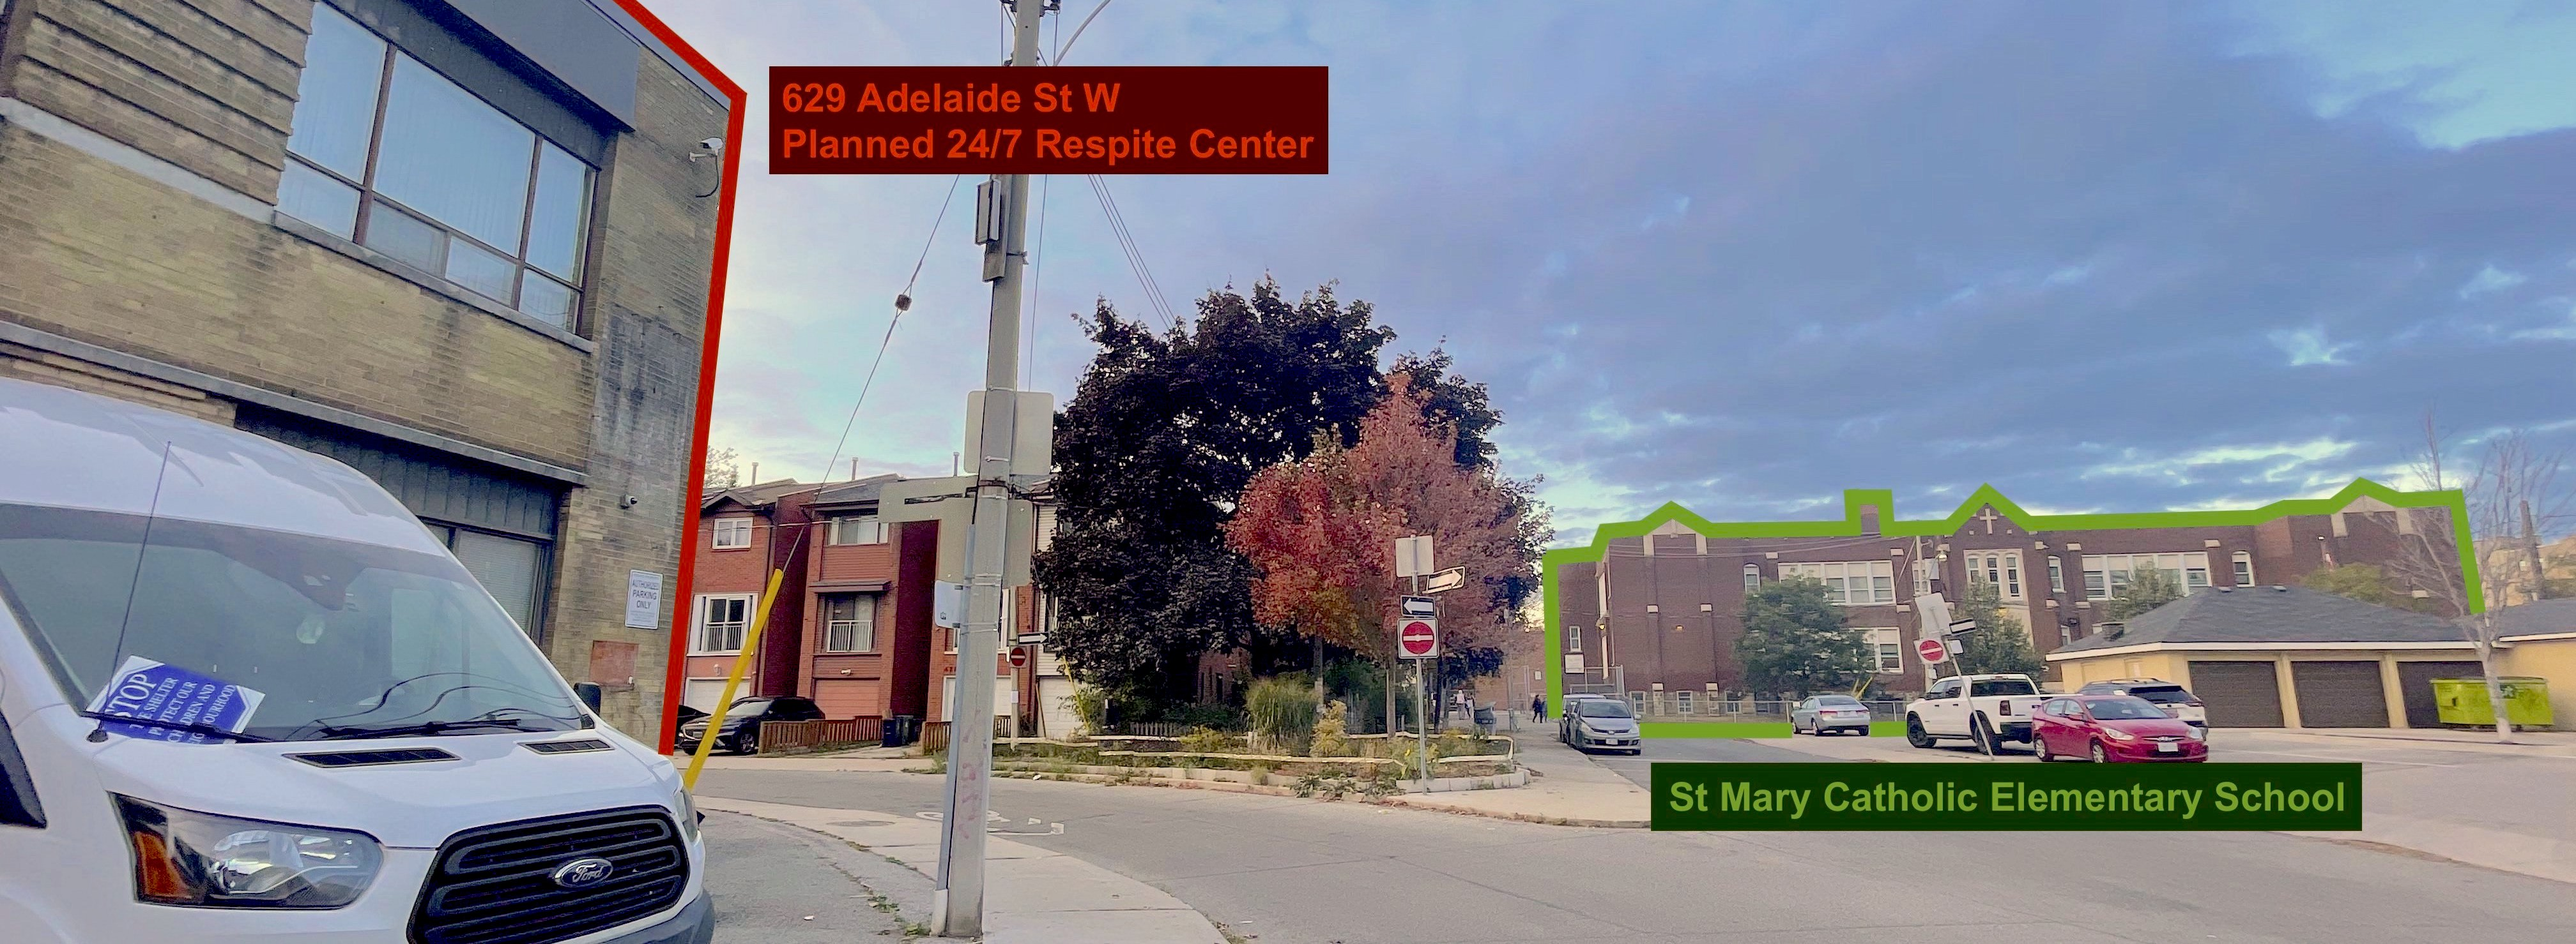
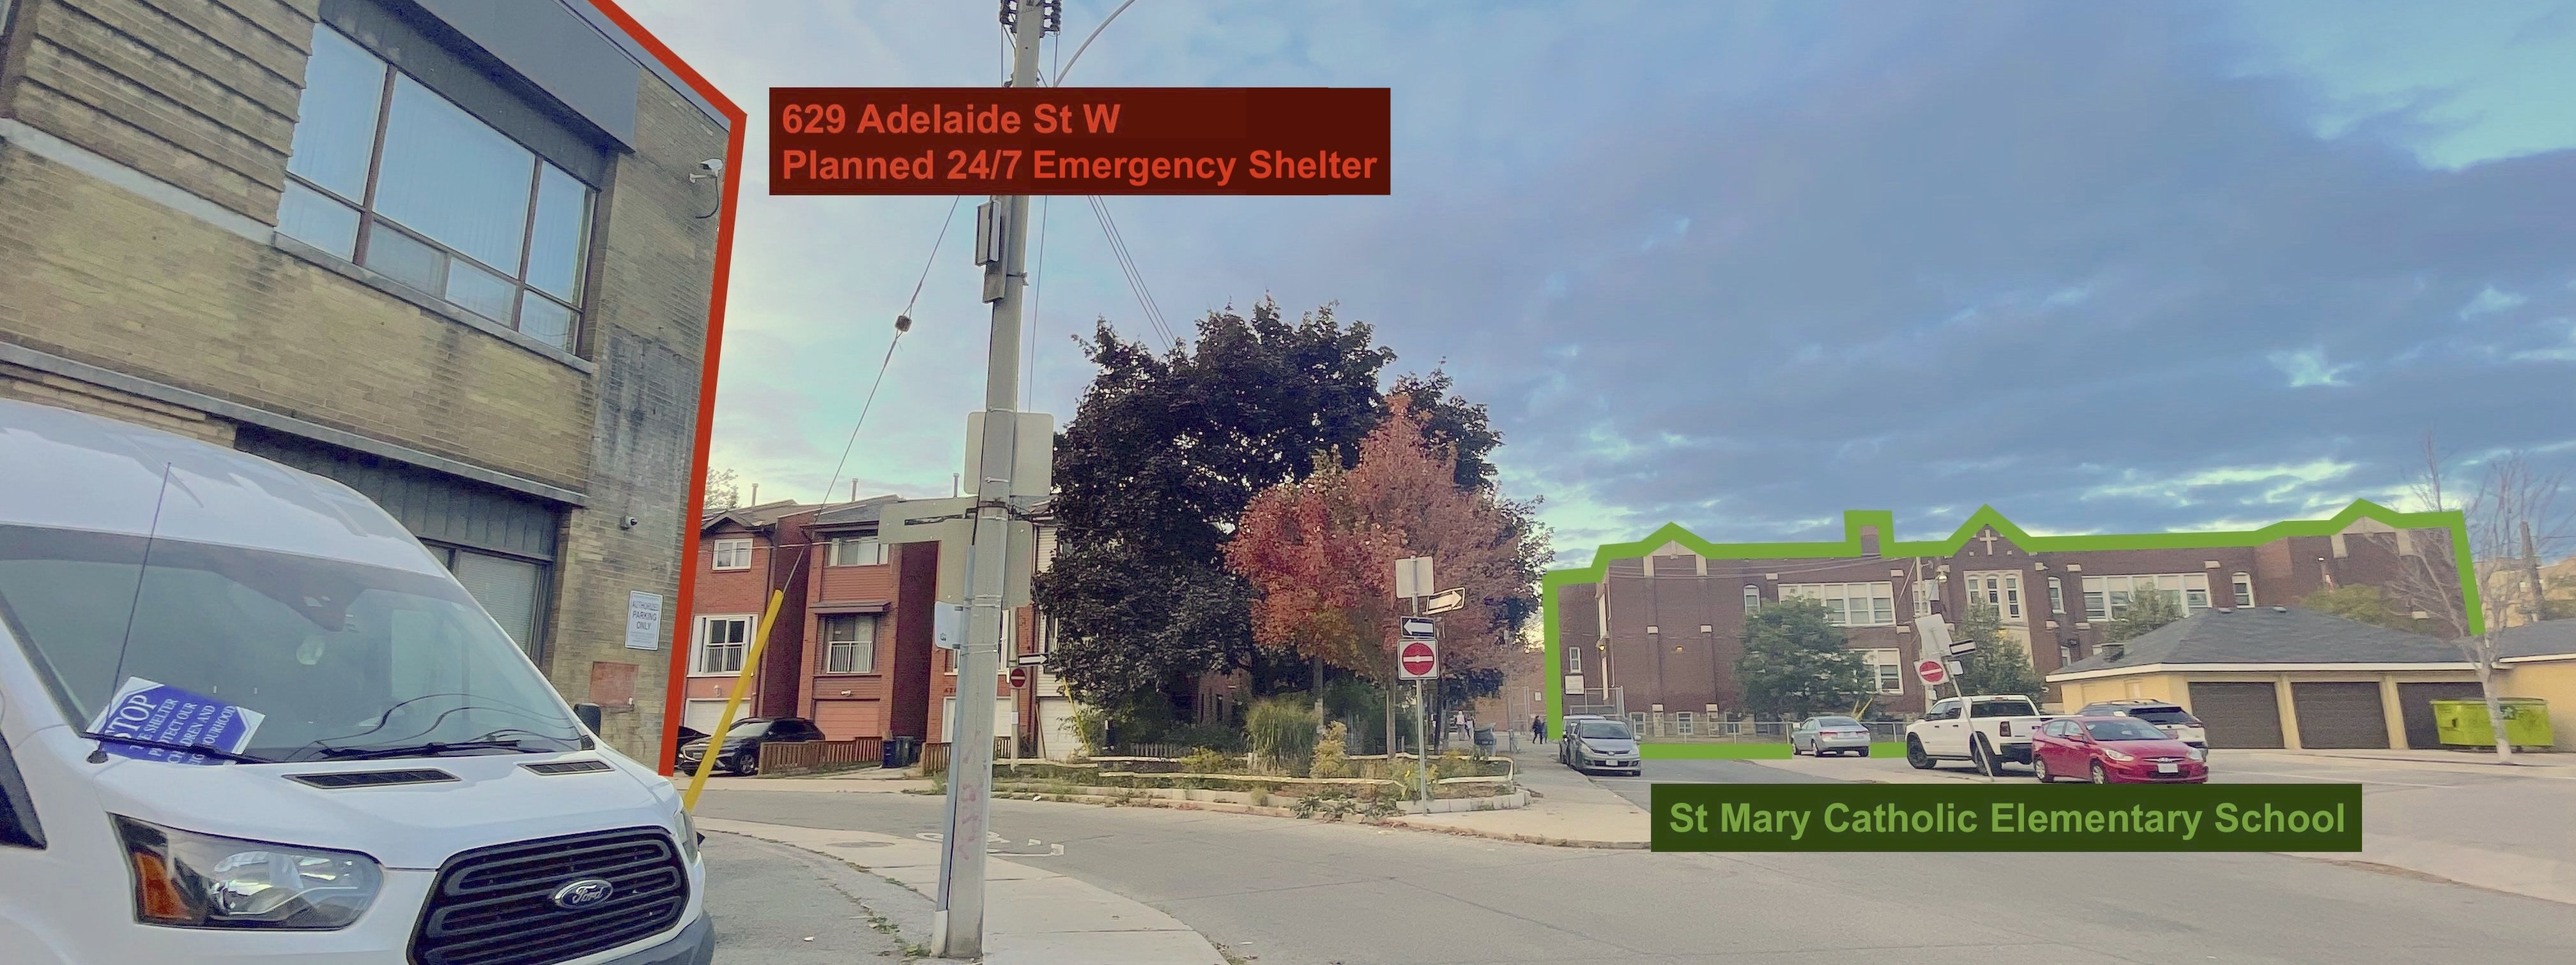
Update content respite -> shelter

diff --git a/index.html b/index.html
@@ -27,11 +27,13 @@
       <button onclick="App.scrollTo('contact')">Contact Us</button>
     </div>
 
+    <!--
     <div class="text-announcement">
       <p>
         Announcement: sign the <a href=https://chng.it/PQwdnjbQV7 target="_blank">change.org petition</a>! 
       </p>
     </div>
+    -->
   </div>
   <div class="scrollable" id="home">
 
@@ -48,16 +50,13 @@
         
         <div class="text-next-to-image">
           <p>
-            <b>Niagara Neighbours for Community Safety (NNCS)</b> is a collection of parents, residents, and businesses in the downtown west area of Toronto who are opposed to the City of Toronto’s proposed plan to convert 629 Adelaide Street West into an 80-person 24-hour low barrier walk-in respite site. This facility is not an overnight shelter. 
+            <b>Niagara Neighbours for Community Safety (NNCS)</b> is a collection of hundreds of parents, residents, and businesses in the downtown west area of Toronto who are opposed to the City of Toronto’s proposed plan to convert 629 Adelaide Street West into a 24-hour emergency shelter. Only weeks ago, we were advised the site was to be a 24-hour low barrier respite site and opening early 2024. 
           </p>
           <p>
-            The site is set to open in early 2024 and is a 30-second walk from St. Mary’s Catholic Elementary School and a two-minute walk from Niagara Street Public School. This is the relocation of a respite site where significant public safety issues occurred. 
+            On Thursday, November 16, 2023, our community was suddenly advised that a 24-hour shelter/emergency shelter (terms used interchangeably) would be sited at 629 Adelaide Street West — rather than a 24-hour low barrier respite site. We did not support the respite site at this location and are unaware as to why the City of Toronto changed the purpose of the site. The entire process has been shrouded in secrecy and a lack of transparency. 
           </p>
           <p>
-            Our neighbourhood has multiple existing social services within blocks of this site. Locating a respite site in the very center of a residential neighbourhood, especially without proactively engaging the community, is reckless.
-          </p>
-          <p>
-            The City of Toronto must reconsider their proposed plan for the respite site.
+            The 24-hour emergency shelter is planned to open in March 2024 and is a 30-second walk from St. Mary’s Catholic Elementary School and a two-minute walk from Niagara Street Public School. Our neighbourhood has a safe consumption site and multiple existing social services within blocks of this site. Locating a 24-hour emergency shelter in the very center of a residential neighbourhood is dangerous and reckless. The City of Toronto must not place this site at this location. 
           </p>
         </div>
 
@@ -70,16 +69,16 @@
         <h4>Key Concerns</h4>
         <ul>
           <li>
-            The close proximity of the respite site to two elementary schools.
+            The close proximity of the 24-hour emergency site to two elementary schools.
           </li>
           <li>
             The significant impact to public safety in our community.
           </li>
           <li>
-            The location of the proposed respite site in a densely-populated residential neighbourhood.
+            The location of the proposed 24-hour emergency shelter in a densely-populated residential neighbourhood.
           </li>
           <li>
-            The City of Toronto’s lack of process, transparency, and proactive public consultation with the community.
+            The City of Toronto’s complete lack of a fair process, transparency, and proactive public consultation with the community.
           </li>
         </ul>
       </div>

diff --git a/style.css b/style.css
@@ -42,7 +42,8 @@ div.navbar button:hover {
 
 div.scrollable {
   width: 100%;
-  margin-top: 80px;
+  /* margin-top: 80px; (with announcement) */
+  margin-top: 50px;
   display: flex;
   flex-direction: row;
   flex-wrap: wrap;
@@ -52,7 +53,7 @@ div.scrollable {
 div.content {
   margin: 0 auto;
   width: calc(100% - 60px);
-  transform: translateY(-30px); 
+  transform: translateY(-30px);
 }
 
 div.full-image {
